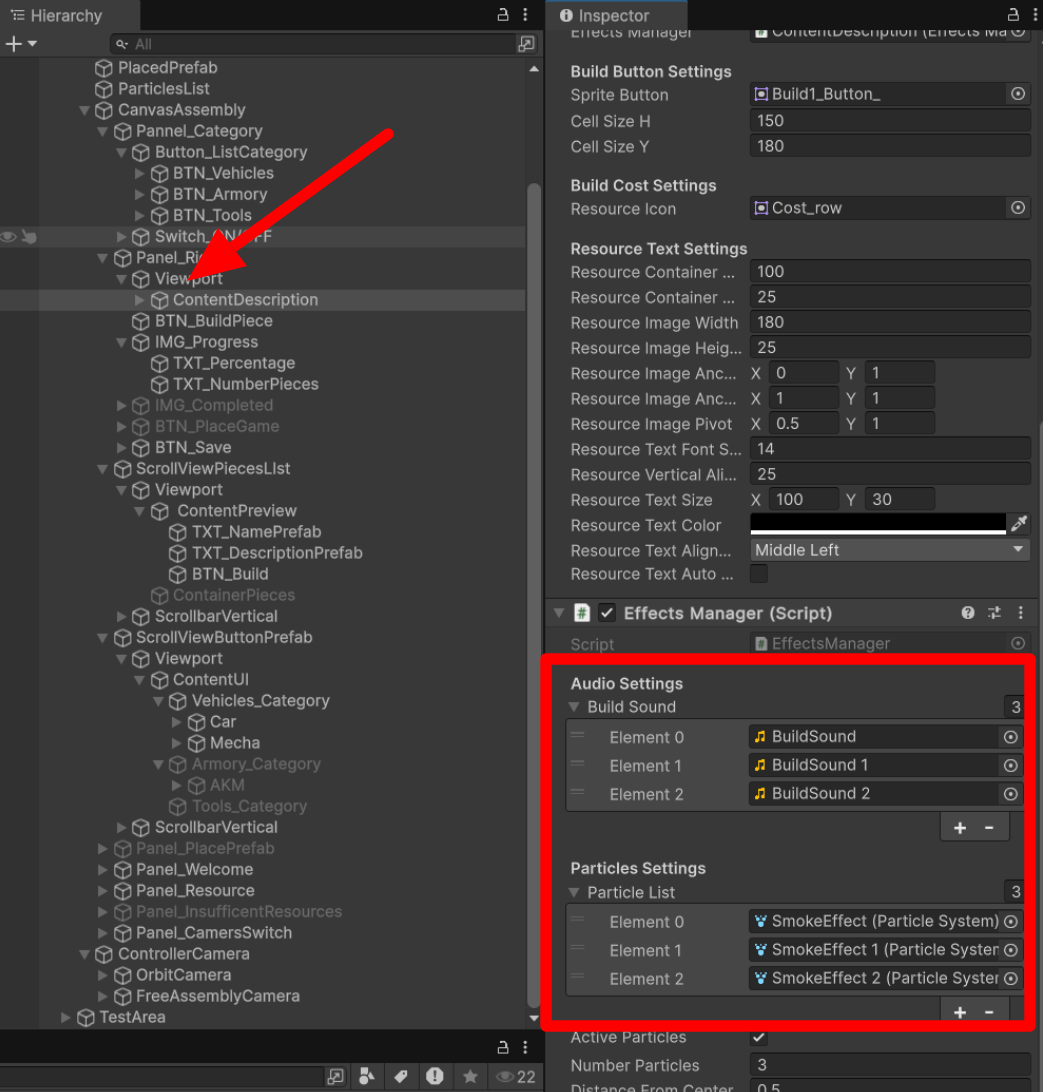
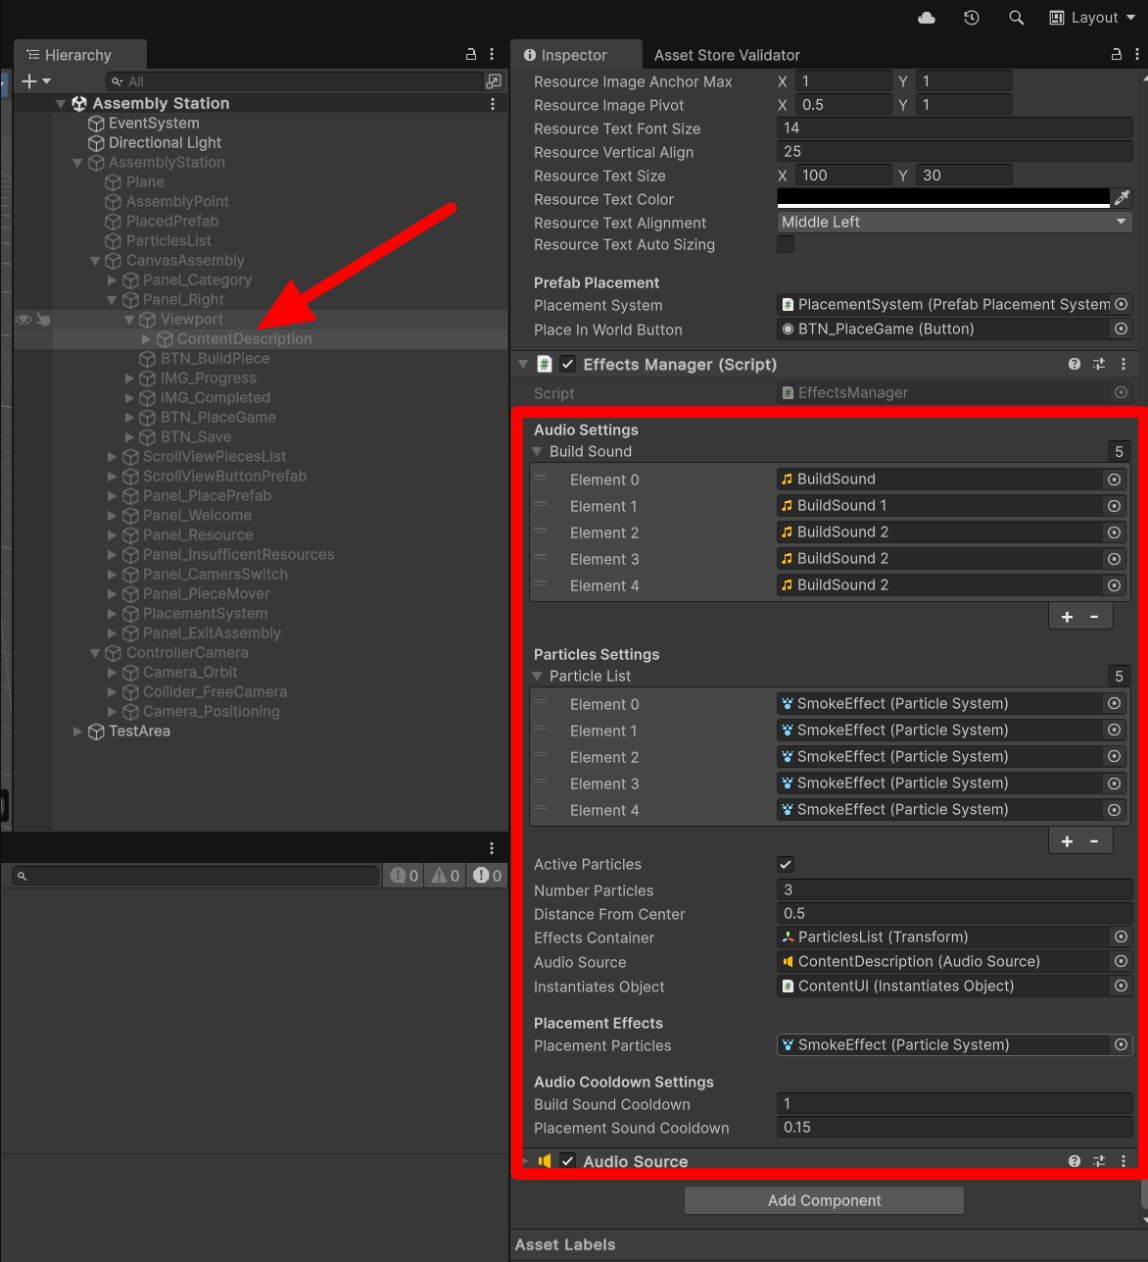
fix: descriptions

Changed region(s): [[0.0, 0.0, 1.0, 1.0], [0.0, 0.467, 0.0307, 0.5604]]

diff --git a/src/views/docs/it/Effects.vue b/src/views/docs/it/Effects.vue
@@ -77,6 +77,29 @@
           </div>
         </div>
       </div>
+
+      <div class="doc-section">
+        <h2 class="doc-section-title">EFFETTI DEL SISTEMA DI POSIZIONAMENTO</h2>
+        
+        <div class="content-block">
+          <div class="content-text">
+            <p>
+              Il sistema include anche effetti sonori per il posizionamento finale del prefab. Quando un utente completa il processo di assemblaggio e posiziona il modello finale nell'ambiente, viene riprodotto un effetto sonoro dedicato per fornire un feedback soddisfacente.
+            </p>
+            <p>
+              Questi effetti di posizionamento aiutano a creare un'esperienza più immersiva e forniscono una conferma audio che l'azione di posizionamento è stata completata con successo.
+            </p>
+          </div>
+          
+          <div class="content-media">
+            <ImageZoomable 
+              src="/images/placementEffects.png" 
+              alt="Effetti del Sistema di Posizionamento"
+              caption="Configurazione degli effetti sonori per il posizionamento finale del prefab"
+            />
+          </div>
+        </div>
+      </div>
     </ContentSection>
   </div>
 </template>

diff --git a/src/views/docs/en/Effects.vue b/src/views/docs/en/Effects.vue
@@ -79,6 +79,30 @@
           </div>
         </div>
       </div>
+
+      <div class="doc-section">
+        <h2 class="doc-section-title">PLACEMENT SYSTEM EFFECTS</h2>
+        
+        <div class="content-block">
+          <div class="content-text">
+            <p>
+              The system also includes sound effects for the final prefab placement. When a user completes the assembly process and places the final model in the environment, a dedicated sound effect plays to provide satisfying feedback.
+            </p>
+            <p>
+              These placement effects help create a more immersive experience and provide audio confirmation that the placement action has been completed successfully.
+            </p>
+          </div>
+          
+          <div class="content-media">
+            <ImageZoomable 
+              src="/images/placementEffects.png" 
+              alt="Placement System Effects"
+              caption="Sound effects configuration for the final prefab placement"
+              class="standard-image"
+            />
+          </div>
+        </div>
+      </div>
     </ContentSection>
   </div>
 </template>

diff --git a/src/views/docs/it/Prefabs.vue b/src/views/docs/it/Prefabs.vue
@@ -215,6 +215,11 @@
               Una volta in gioco, la camera che ruota intorno al prefab posizionato avrà come punto di riferimento l'Orbit Camera Point che verrà sempre aggiunto automaticamente con Add Name and Descriptions To Prefab.
             </p>
             <hr>
+            <div class="alert-box alert-warning">
+              <p>
+                <strong>IMPORTANTE:</strong> Prima di modificare l'OrbitCameraPoint, è necessario andare al <strong>punto 4 della documentazione</strong> ed eseguire il passaggio "Add Name and Descriptions To Prefab". Questo assicurerà che l'Orbit Camera Point venga aggiunto correttamente al tuo prefab.
+              </p>
+            </div>
             <p>
               In modalità Editor, puoi spostare il punto pivot di ObitalCameraPoint per rendere la camera più bassa o più alta secondo necessità.
             </p>

diff --git a/src/views/docs/en/Prefabs.vue b/src/views/docs/en/Prefabs.vue
@@ -215,6 +215,11 @@
               Once in game, the camera that rotates around the placed prefab will have as a reference point the Orbit Camera Point that will always be added automatically with Add Name and Descriptions To Prefab.
             </p>
             <hr>
+            <div class="alert-box alert-warning">
+              <p>
+                <strong>IMPORTANT:</strong> Before modifying the OrbitCameraPoint, you must go to <strong>documentation point 4</strong> and execute the "Add Name and Descriptions To Prefab" step. This will ensure the Orbit Camera Point is properly added to your prefab.
+              </p>
+            </div>
             <p>
               In Editor mode, you can move the pivot point of ObitalCameraPoint to make the camera lower or higher as needed.
             </p>

diff --git a/src/views/docs/it/Settings.vue b/src/views/docs/it/Settings.vue
@@ -324,16 +324,6 @@
                     <td>float</td>
                     <td>Regola la sensibilità dell'input del mouse per il controllo della camera.</td>
                   </tr>
-                  <tr>
-                    <td>_invertYAxis</td>
-                    <td>bool</td>
-                    <td>Determina se l'input dell'asse Y è invertito per il movimento della camera.</td>
-                  </tr>
-                  <tr>
-                    <td>_invertXAxis</td>
-                    <td>bool</td>
-                    <td>Determina se l'input dell'asse X è invertito per il movimento della camera.</td>
-                  </tr>
                 </tbody>
               </table>
               

diff --git a/src/views/docs/en/Settings.vue b/src/views/docs/en/Settings.vue
@@ -324,16 +324,6 @@
                     <td>float</td>
                     <td>Adjusts the sensitivity of mouse input for camera control.</td>
                   </tr>
-                  <tr>
-                    <td>_invertYAxis</td>
-                    <td>bool</td>
-                    <td>Determines whether the Y-axis input is inverted for camera movement.</td>
-                  </tr>
-                  <tr>
-                    <td>_invertXAxis</td>
-                    <td>bool</td>
-                    <td>Determines whether the X-axis input is inverted for camera movement.</td>
-                  </tr>
                 </tbody>
               </table>
               
